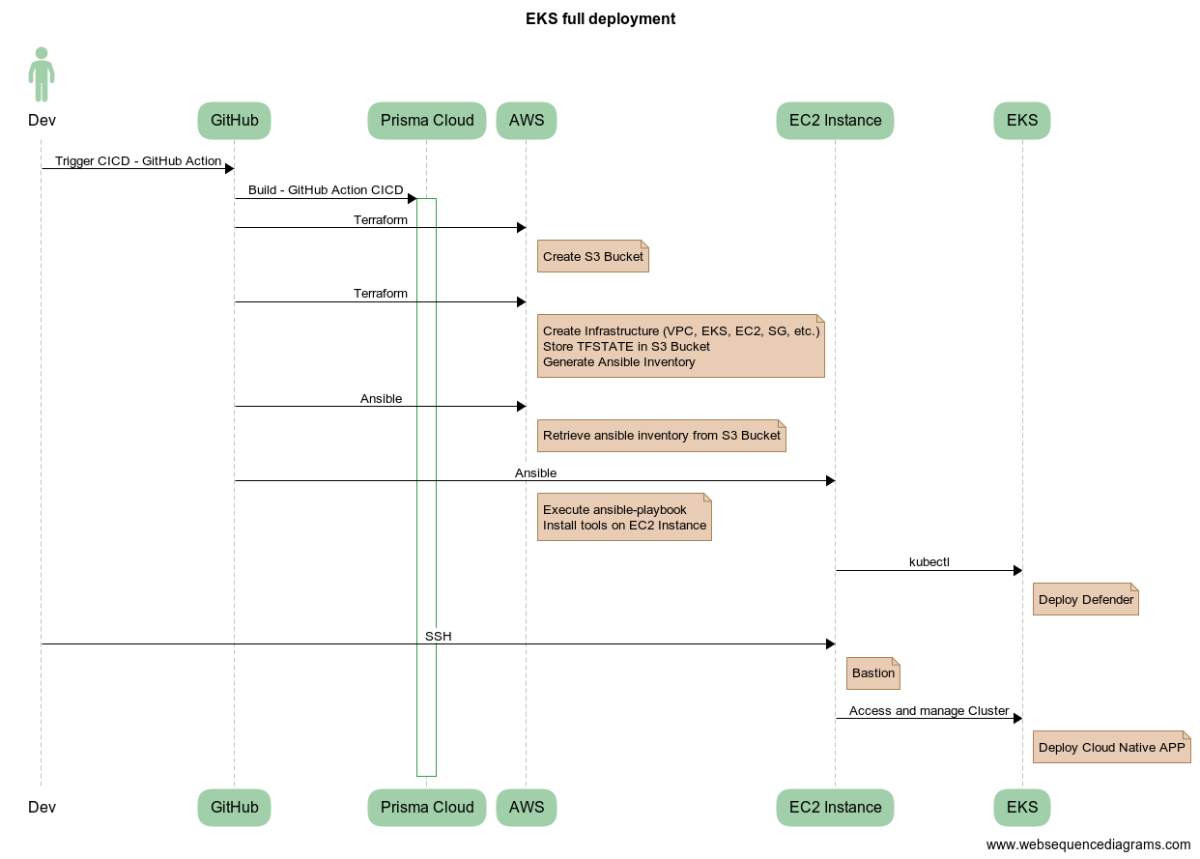
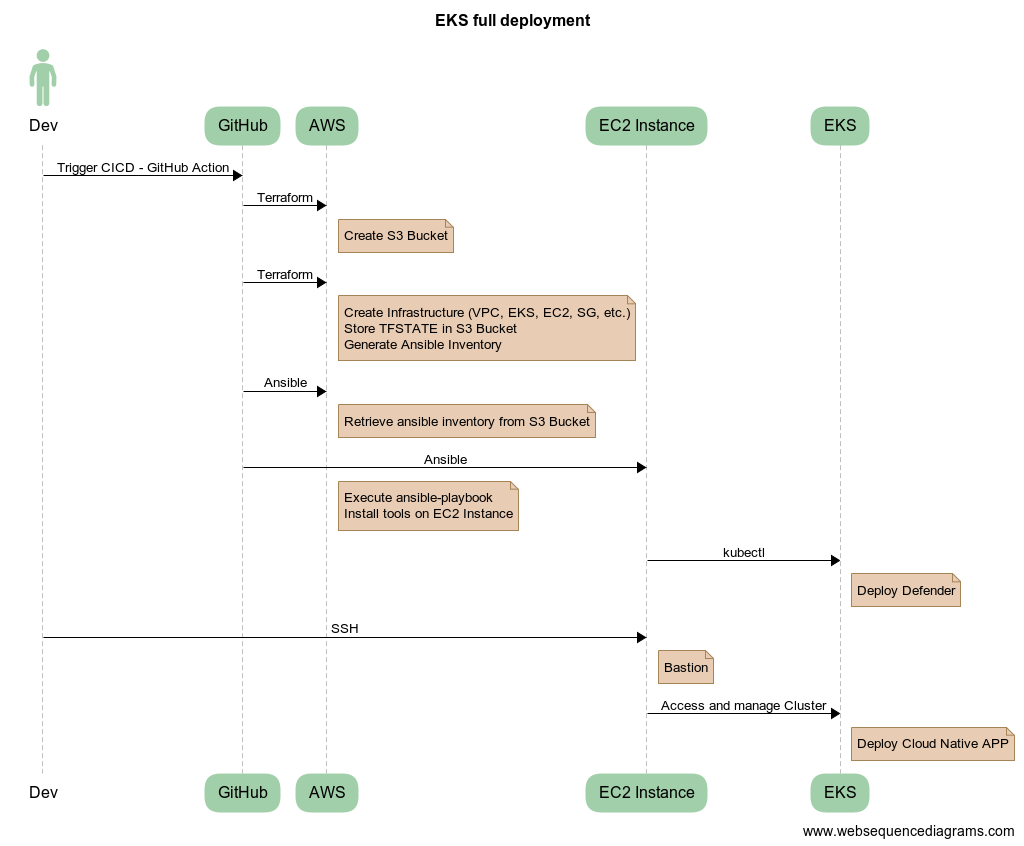
Fix Diagram & HLD

diff --git a/README.md b/README.md
@@ -16,7 +16,7 @@ It is possible to use this code to quickly deploy a cloud native environment (K8
 
 ### High Level Diagram
 
-![hld](images/Terraform-aws-eks.png)
+![hld](images/HLD.png)
 
 
 
@@ -50,8 +50,6 @@ Open **Settings > Security > Secrets and variables > Actions**
 - <u>**Secrets**</u>
   - **AWS_ACCESS_KEY_ID** 
   - **AWS_SECRET_ACCESS_KEY**
-  - **PC_ACCESS_KEY** (Prisma Cloud Access Key)
-  - **PC_SECRET_KEY** (Prisma Cloud Secret Key)
   - **SSH_PRIVATE_KEY** (Private key yes, will be used by ansible to connect to bastion instance to install tools)
 
 
